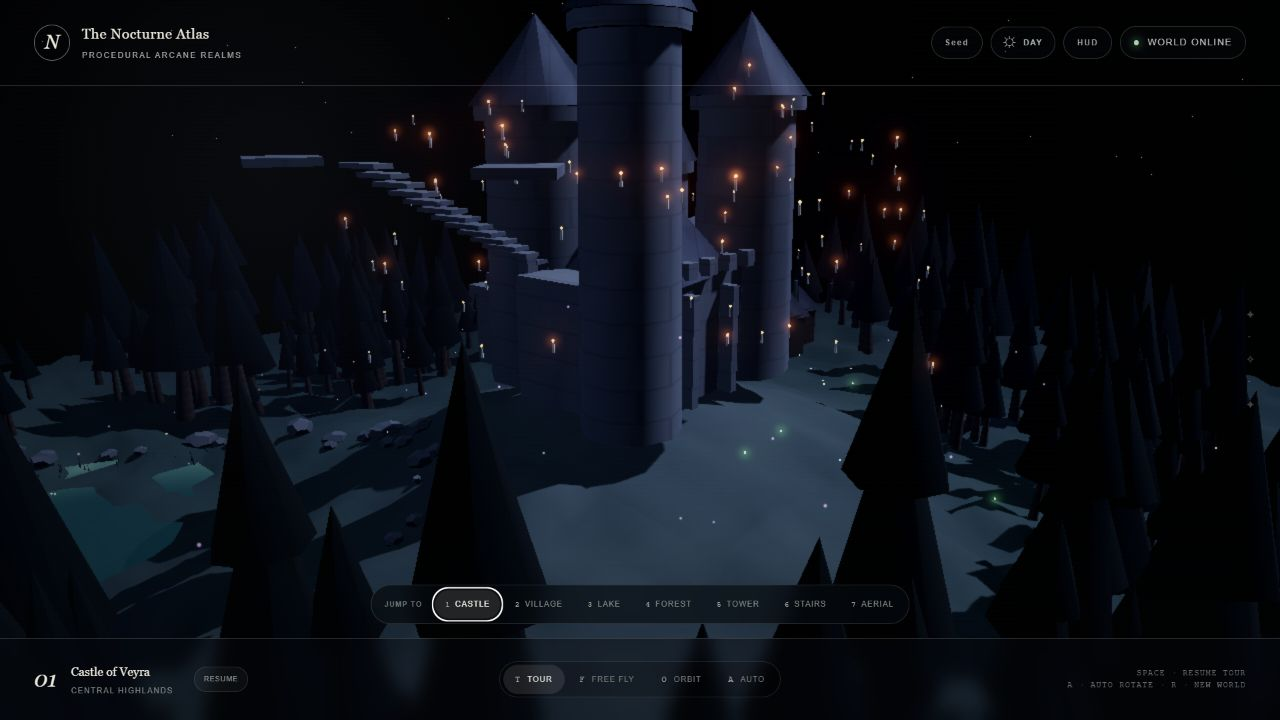
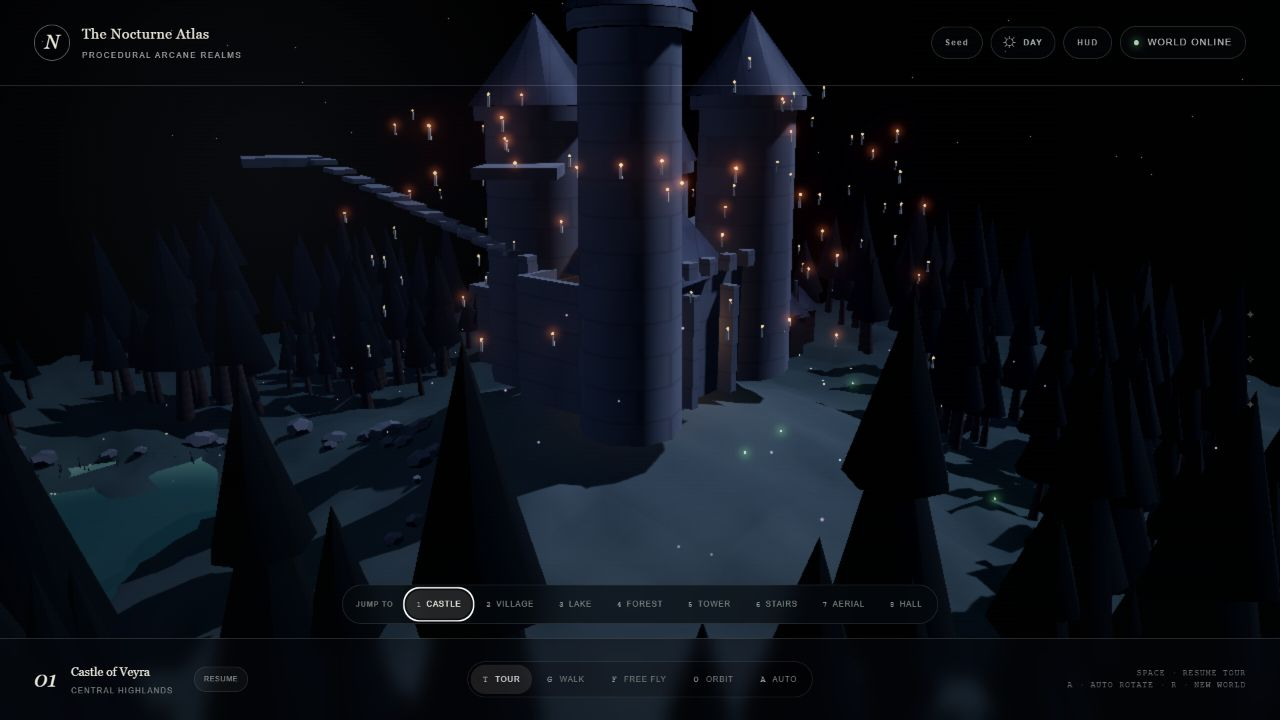
Refresh generator 1.9 scene gallery

diff --git a/tests/great-hall.test.ts b/tests/great-hall.test.ts
@@ -24,11 +24,13 @@ test('Great Hall creates a hollow shell and complete interior landmarks', () => 
     'great-hall-banners',
     'great-hall-rafters',
     'great-hall-floating-candles',
+    'great-hall-candle-light-rig',
   ];
 
   for (const name of requiredNames) assert.ok(hall.getObjectByName(name), `Missing ${name}`);
   assert.equal((hall.getObjectByName('great-hall-windows') as THREE.InstancedMesh).count, 12);
   assert.equal((hall.getObjectByName('great-hall-floating-candles') as THREE.InstancedMesh).count, 24);
+  assert.equal((hall.getObjectByName('great-hall-candle-light-rig') as THREE.Group).children.length, 3);
 });
 
 test('Great Hall candle layout is deterministic and seed-sensitive', () => {

diff --git a/app/great-hall.ts b/app/great-hall.ts
@@ -165,6 +165,19 @@ export function createGreatHallArchitecture(seed: string, materials: GreatHallMa
   }
   hall.add(wax, flames);
 
+  const candleLightRig = new THREE.Group();
+  candleLightRig.name = 'great-hall-candle-light-rig';
+  for (const [x, y, z, intensity] of [
+    [-4.2, 4.6, -0.5, 18],
+    [4.2, 4.6, -0.5, 18],
+    [0, 4.8, -3.2, 13],
+  ] as const) {
+    const light = new THREE.PointLight(0xffb36b, intensity, 14, 2);
+    light.position.set(x, y, z);
+    candleLightRig.add(light);
+  }
+  hall.add(candleLightRig);
+
   hall.traverse((object) => {
     if (object instanceof THREE.InstancedMesh) object.instanceMatrix.needsUpdate = true;
   });

diff --git a/README.md b/README.md
@@ -8,9 +8,9 @@ An original, seed-driven 3D wizarding world built with Three.js and TypeScript.
 
 ## Scene Gallery / 場景圖庫
 
-The outdoor gallery was captured from the deterministic `MAGIC-001` world with generator `1.8.0`, Medium quality, and night mode. Every image is an actual scene-switch destination with the tour paused after arrival. Generator `1.9.0` preserves these outdoor destinations and adds the Great Hall interior described below.
+The gallery was captured from the deterministic `MAGIC-001` world with generator `1.9.0`, Medium quality, and night mode. All eight images are actual scene-switch destinations with the tour paused after arrival, including the seeded Great Hall interior.
 
-戶外圖庫擷取自固定種子 `MAGIC-001`、生成器 `1.8.0`、中等畫質與夜間模式。每張圖片都是實際可切換的場景目的地，抵達後導覽會保持暫停。生成器 `1.9.0` 保留這些戶外目的地，並新增下方說明的大廳室內場景。
+圖庫擷取自固定種子 `MAGIC-001`、生成器 `1.9.0`、中等畫質與夜間模式。八張圖片都是實際可切換的場景目的地，抵達後導覽會保持暫停，並包含種子化城堡大廳室內場景。
 
 | 1 · Castle of Veyra / 維拉城堡 | 2 · Lumen Row / 流明街村莊 |
 | --- | --- |
@@ -24,9 +24,9 @@ The outdoor gallery was captured from the deterministic `MAGIC-001` world with g
 | --- | --- |
 | ![Astral Spire upper observatory and floating candles](docs/screenshots/tower.png) | ![Moving Stair courtyard connection study](docs/screenshots/courtyard-stair.png) |
 
-### 7 · Aerial Survey / 空中勘察
-
-![Aerial survey showing the deterministic world zoning overview](docs/screenshots/aerial.png)
+| 7 · Aerial Survey / 空中勘察 | 8 · The Great Hall / 城堡大廳 |
+| --- | --- |
+| ![Aerial survey showing the deterministic world zoning overview](docs/screenshots/aerial.png) | ![The Great Hall interior with floating candles, long tables, banners, and a dais](docs/screenshots/great-hall.png) |
 
 ---
 
@@ -70,12 +70,12 @@ Create a production build with `npm run build`. Run the deterministic regression
 
 ### Validation evidence
 
-- Seven fixed destinations were browser-checked and recaptured from generator `1.8.0` at 1280×720.
+- All eight fixed destinations were browser-checked and recaptured from generator `1.9.0` at 1280×720.
 - Village, Forest, Tower, and Moving Stair cameras satisfy presentation-clearance contracts across twenty regression seeds.
 - Day/night transition, automatic orbit, mouse drag, and wheel zoom were exercised in the local WebGL experience. Touch input shares the tested orbit constraints and adds one-finger drag plus two-finger pinch.
 - All 33 deterministic, lifecycle, shader, environment, collision, camera, interior, and presentation tests pass. Coverage includes deterministic Great Hall furnishing, grounded movement, world/lake/castle/village collision, seeded detail profiles, night fill ownership, exposure, fog density, daylight transition, shadow toggles, landmark-relative orbit focus, drag-paused automatic rotation, and idempotent cleanup.
 - Production build and lint complete without errors. The build currently reports a non-blocking warning for the Three.js client chunk exceeding 500 kB after minification.
-- The generator `1.8.0` Medium-quality castle baseline reports 172 draw calls, 63k triangles, and 64 geometries, within the Phase 1 draw-call budget. Generator `1.9.0` adds instanced interior furnishings; a fresh hardware sample is recommended. Final 1080p FPS qualification remains hardware-dependent.
+- The generator `1.9.0` Medium-quality castle view reports 200 draw calls, 66k triangles, and 79 geometries at 1280×720, within the Phase 1 draw-call budget. The Great Hall view reports 129 draw calls and 60k triangles. Final 1080p FPS qualification remains hardware-dependent.
 
 ### Implementation notes
 
@@ -85,7 +85,7 @@ Terrain, castle stone, slate roofs, tree trunks, and village timber use seed-awa
 
 Generator `1.8.0` adds a rendered gatehouse with an arched portal, instanced castle buttresses and battlements, seeded village chimneys, framed windows and hanging signs, plus leaning trunks and two-tier near-tree canopies. Detail profiles use isolated seed namespaces so silhouette changes do not cascade into unrelated systems. Village windows and trim are instanced in shared batches to keep added draw-call cost bounded.
 
-Generator `1.9.0` replaces the solid Great Hall mass with a hollow architectural shell while preserving its exterior roofline. Scene `8` presents a seeded interior with long tables, benches, dais, lectern, banners, glowing windows, rafters, and twenty-four floating candles. Repeated seeds reproduce the same candle layout.
+Generator `1.9.0` replaces the solid Great Hall mass with a hollow architectural shell while preserving its exterior roofline. Scene `8` presents a seeded interior with long tables, benches, dais, lectern, banners, glowing windows, rafters, twenty-four floating candles, and a bounded warm candle-light rig for readable night interiors. Repeated seeds reproduce the same candle layout.
 
 Regeneration uses an atomic swap: a new world is constructed and validated before it replaces the active root. Shared resources are deduplicated through an idempotent registry before disposal. Failed generation leaves the existing world visible, while WebGL context restoration triggers a validated rebuild. The `20× rebuild audit` tracks GPU geometry and browser heap samples when heap telemetry is available.
 
@@ -139,12 +139,12 @@ npm run dev
 
 ### 驗證結果
 
-- 七個固定場景目的地皆已使用生成器 `1.8.0` 以 1280×720 實際檢查並重新截圖。
+- 八個固定場景目的地皆已使用生成器 `1.9.0` 以 1280×720 實際檢查並重新截圖。
 - 村莊、森林、高塔與移動階梯鏡頭，在二十組回歸種子中皆符合取景淨空規則。
 - 日夜切換、自動環繞、滑鼠拖曳與滾輪縮放已在本機 WebGL 場景操作驗證。觸控操作沿用相同環繞限制，並加入單指拖曳與雙指縮放。
 - 33 項固定性、生命週期、Shader、環境、碰撞、鏡頭、室內與場景呈現測試全數通過。涵蓋固定種子大廳陳設、貼地移動、世界／湖泊／城堡／村莊碰撞、種子化細節設定、夜間補光管理、曝光、霧密度、日夜轉換、陰影切換、地標中心環繞、拖曳暫停自轉與重複清理安全性。
 - 正式建置與 Lint 均無錯誤。目前僅有 Three.js 用戶端區塊壓縮後超過 500 kB 的非阻擋警告。
-- 生成器 `1.8.0` 的中等畫質城堡基準為 172 Draw Calls、63k 三角形與 64 個 Geometry，符合 Phase 1 的 Draw Call 預算。生成器 `1.9.0` 加入實例化室內陳設，建議重新進行硬體抽樣。最終 1080p FPS 仍需依實際硬體確認。
+- 生成器 `1.9.0` 的中等畫質城堡視角在 1280×720 下為 200 Draw Calls、66k 三角形與 79 個 Geometry，符合 Phase 1 的 Draw Call 預算；城堡大廳視角則為 129 Draw Calls 與 60k 三角形。最終 1080p FPS 仍需依實際硬體確認。
 
 ### 實作說明
 
@@ -154,7 +154,7 @@ npm run dev
 
 生成器 `1.8.0` 新增具有拱門入口的城門建築、實例化城堡扶壁與垛口、種子化村莊煙囪、窗框與懸掛招牌，以及傾斜樹幹和近景雙層樹冠。細節設定使用隔離的種子命名空間，輪廓變化不會連帶改變其他系統。村莊窗戶與飾條以共用 Instancing 批次繪製，使新增細節的 Draw Call 成本維持受控。
 
-生成器 `1.9.0` 將原本實心的城堡大廳改為中空建築外殼，同時保留外部屋頂輪廓。場景 `8` 會呈現具有長桌、長椅、講台、旗幟、發光窗戶、屋樑與二十四根漂浮蠟燭的種子化室內空間；相同種子會重現相同的燭光配置。
+生成器 `1.9.0` 將原本實心的城堡大廳改為中空建築外殼，同時保留外部屋頂輪廓。場景 `8` 會呈現具有長桌、長椅、講台、旗幟、發光窗戶、屋樑、二十四根漂浮蠟燭，以及範圍受限的暖色燭光補光；相同種子會重現相同的蠟燭配置。
 
 世界重建採用原子交換：新世界完成建立與驗證後才取代目前場景。共用資源由可重複安全清理的 Registry 去重並釋放。生成失敗時舊世界仍可使用；WebGL Context 恢復後則會觸發已驗證的重建流程。`20× rebuild audit` 會記錄 GPU Geometry，以及瀏覽器提供 Heap Telemetry 時的記憶體樣本。
 
